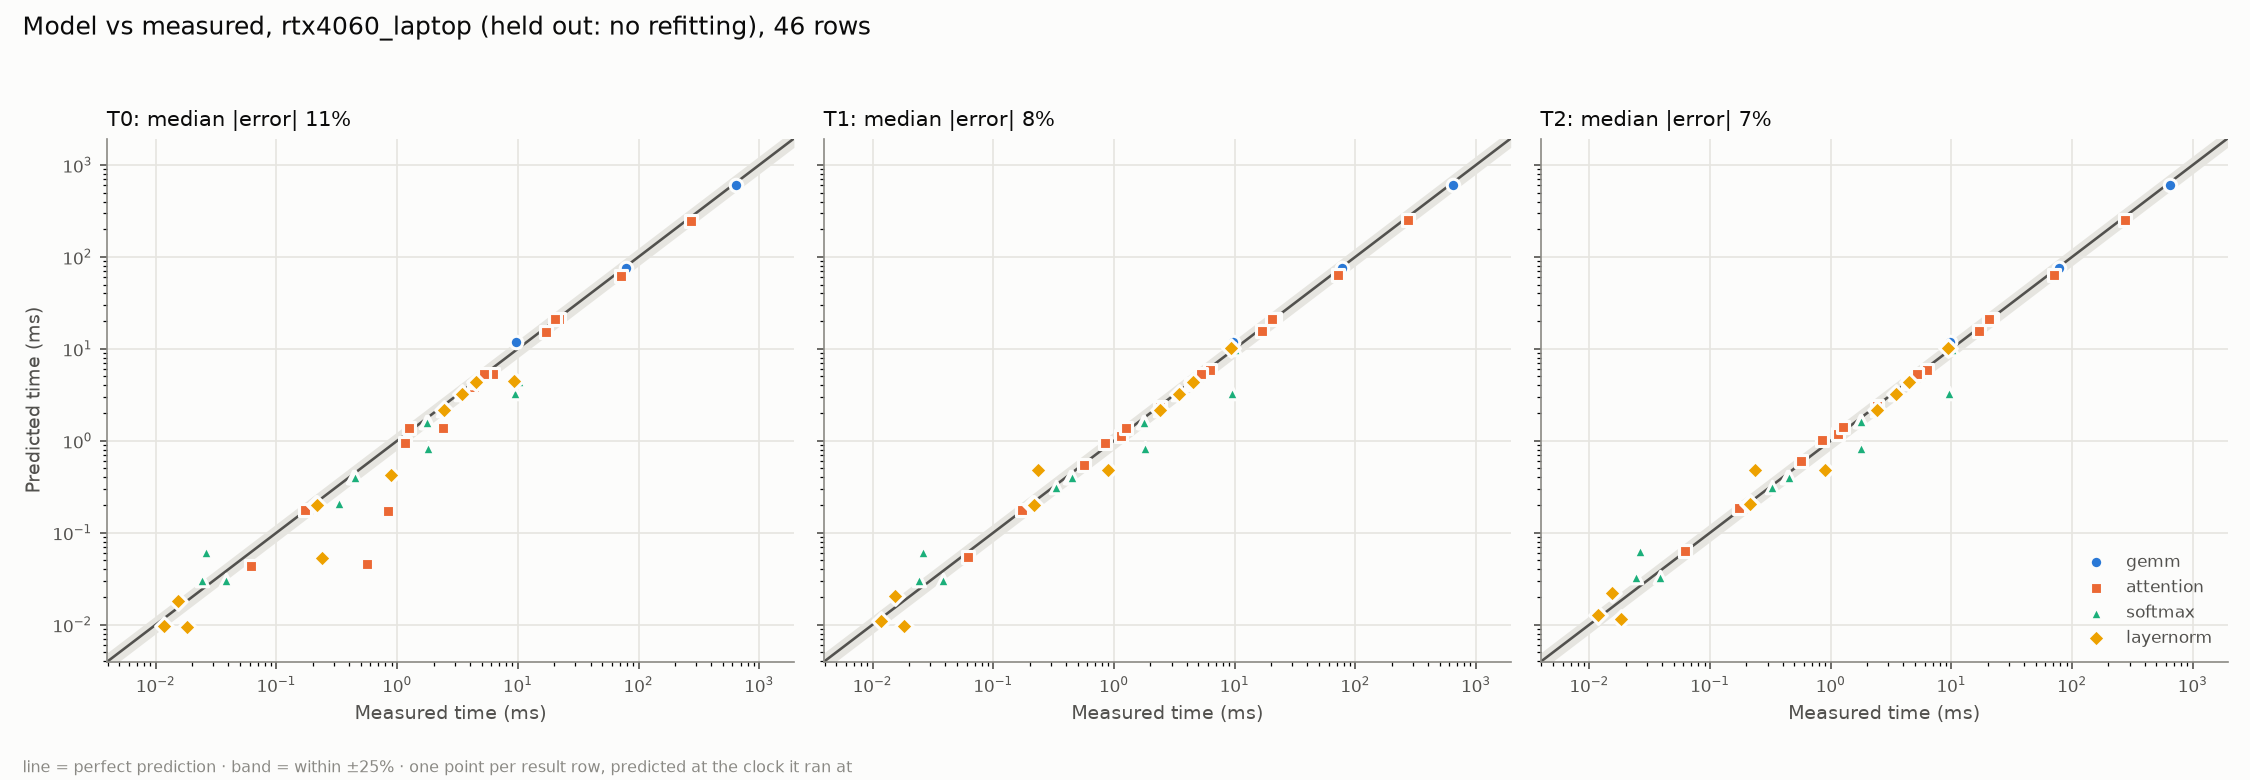
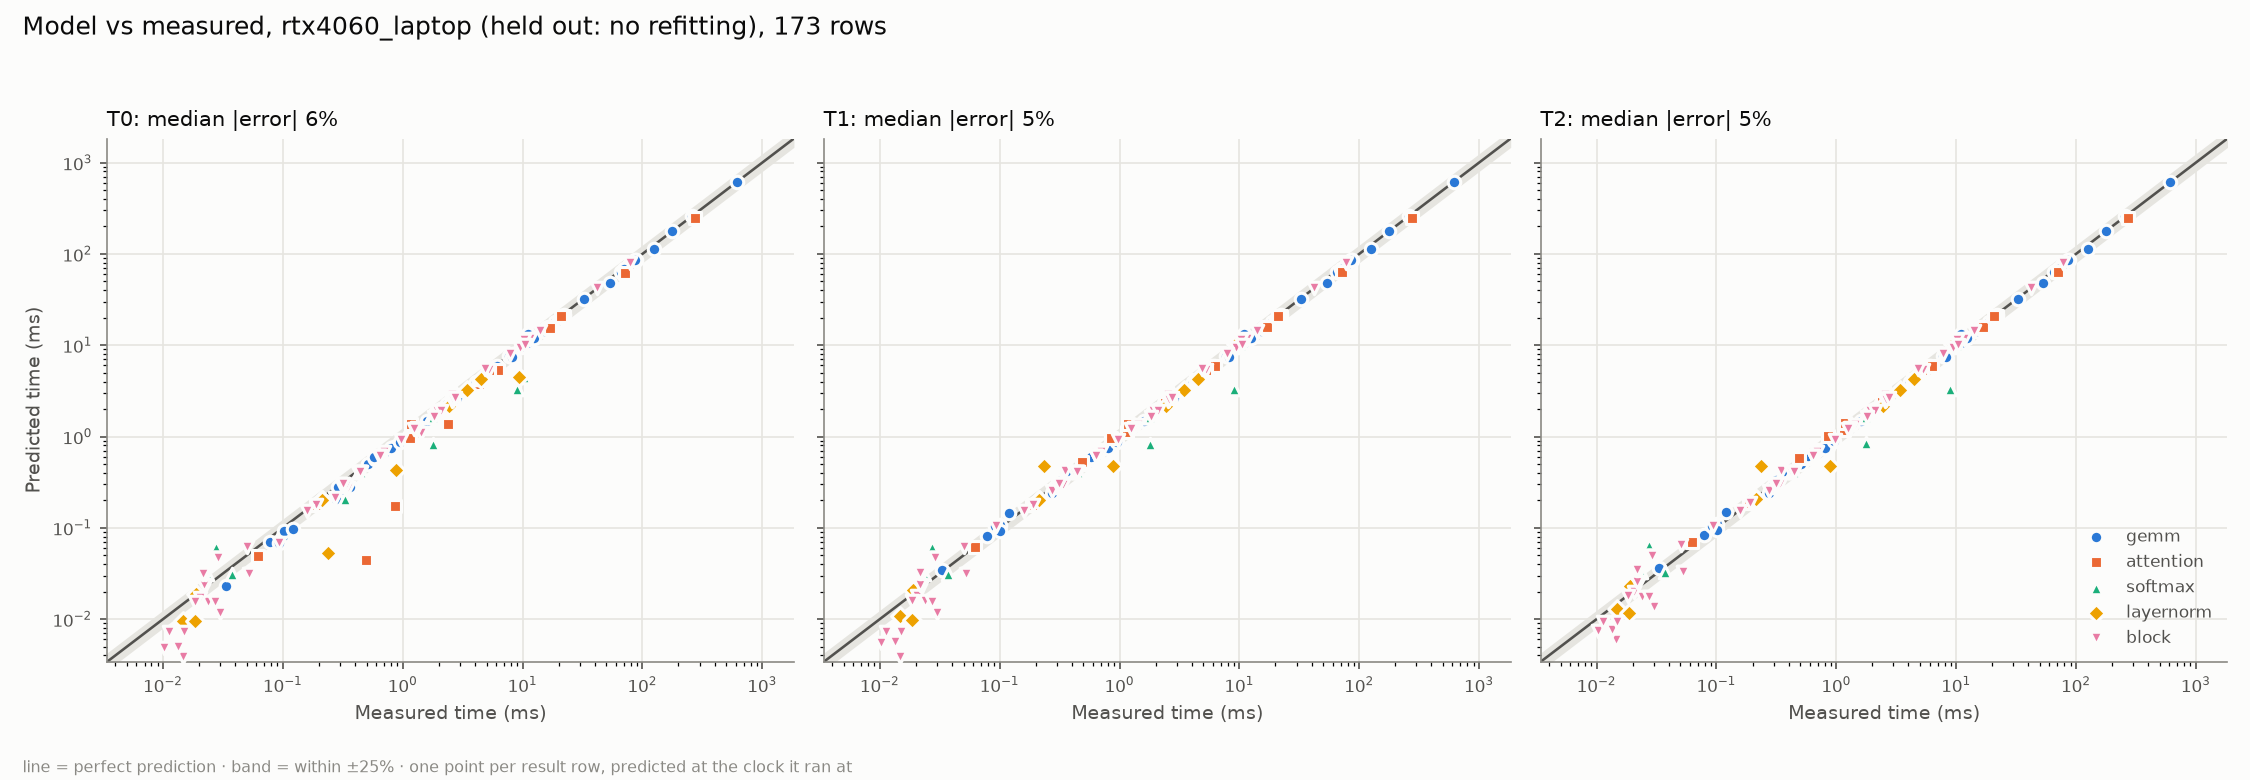
Validate on the full held-out 4060 suite: 6%/5%/5% at T0/T1/T2, no refitting
With #12's rows the 4060 set is the same 173 cases as the 4070's. The model predicts the
4060/4070 time ratio to within 2% for GEMM (1.47 vs 1.48 measured) and 4% for the memory-bound
kernels, and the one-wave GEMMs at ~1.0. The block total is within 7% (2% from 2048 tokens up).
The worst block-step misses are WSL2 launch overhead, which a native-Linux launch_us can't see.

diff --git a/analysis/model.md b/analysis/model.md
@@ -57,27 +57,61 @@ Everything else is measured (ceilings, latencies, clocks) or counted (descriptor
 
 ### RTX 4060 Laptop, held out
 
+The full suite from `b/model-inputs` (#12), predicted with the 4070's parameters and no refitting.
+
 | kernel | variant | rows | T0 median abs err | T1 median abs err | T2 median abs err | T2 bias | T2 worst row |
 |---|---|---|---|---|---|---|---|
-| attention | v0 | 5 | 12% | 8% | 8% | 0.94 | 12x2048x64 -12% |
-| attention | v1 | 5 | 42% | 4% | 5% | 1.03 | 12x512x64 +19% |
-| attention | v2 | 5 | 3% | 3% | 3% | 1.05 | 12x1024x64 +10% |
-| gemm | v0 | 3 | 6% | 6% | 6% | 1.04 | 1024x1024x1024 +22% |
-| layernorm | v0 | 3 | 52% | 46% | 46% | 1.06 | 1024x768 +102% |
-| layernorm | v1 | 3 | 5% | 5% | 4% | 1.10 | 1024x768 +46% |
-| layernorm | v2 | 3 | 6% | 6% | 6% | 1.00 | 1024x768 +9% |
-| layernorm | v3 | 3 | 11% | 11% | 11% | 0.81 | 1024x768 -36% |
-| softmax | v0 | 4 | 55% | 29% | 29% | 0.63 | 24576x2048 -65% |
-| softmax | v1 | 4 | 7% | 7% | 6% | 1.20 | 6144x512 +144% |
-| softmax | v2 | 4 | 8% | 8% | 8% | 1.02 | 6144x512 +36% |
-| softmax | v3 | 4 | 10% | 10% | 10% | 0.89 | 6144x512 -14% |
-| **all** |  | 46 | 11% | 8% | 7% | 0.97 | 24576x2048 -65% |
+| attention | v1 | 5 | 42% | 6% | 5% | 1.04 | 12x512x64 +18% |
+| attention | v2 | 5 | 5% | 2% | 2% | 1.06 | 12x1024x64 +19% |
+| block | attn | 5 | 5% | 5% | 2% | 1.07 | 8x512x768x12 +21% |
+| block | fc1 | 5 | 6% | 6% | 6% | 1.02 | 8x512x768x12 +10% |
+| block | fc2 | 5 | 5% | 5% | 5% | 1.00 | 1x512x768x12 +20% |
+| block | gelu | 5 | 11% | 11% | 11% | 0.93 | 1x512x768x12 -26% |
+| block | ln1 | 5 | 40% | 45% | 27% | 1.10 | 4x1024x768x12 +61% |
+| block | ln2 | 5 | 37% | 41% | 43% | 1.04 | 1x512x768x12 -43% |
+| block | merge | 5 | 41% | 41% | 37% | 0.63 | 1x512x768x12 -60% |
+| block | proj | 5 | 4% | 4% | 4% | 0.98 | 1x512x768x12 +14% |
+| block | qkv | 5 | 5% | 5% | 5% | 0.96 | 8x512x768x12 -8% |
+| block | res1 | 5 | 36% | 36% | 18% | 1.19 | 4x1024x768x12 +69% |
+| block | res2 | 5 | 51% | 51% | 38% | 1.15 | 4x1024x768x12 +75% |
+| block | split | 5 | 4% | 4% | 3% | 0.84 | 1x512x768x12 -54% |
+| block | total | 5 | 1% | 1% | 2% | 1.00 | 1x512x768x12 -5% |
+| gemm | v0 | 13 | 3% | 3% | 3% | 0.99 | 512x3072x768 +21% |
+| gemm | v1 | 13 | 2% | 2% | 2% | 0.97 | 512x2304x768 -5% |
+| gemm | v2 | 13 | 5% | 5% | 4% | 0.95 | 3072x3072x3072 -10% |
+| gemm | v3 | 13 | 8% | 5% | 5% | 0.99 | 512x768x3072 +16% |
+| gemm | v4 | 13 | 6% | 4% | 6% | 1.01 | 512x768x3072 +23% |
+| layernorm | v0 | 3 | 52% | 46% | 46% | 1.06 | 1024x768 +103% |
+| layernorm | v1 | 3 | 4% | 5% | 4% | 1.04 | 1024x768 +22% |
+| layernorm | v2 | 3 | 6% | 6% | 6% | 0.93 | 1024x768 -13% |
+| layernorm | v3 | 3 | 12% | 12% | 11% | 0.81 | 1024x768 -37% |
+| softmax | v0 | 4 | 55% | 29% | 28% | 0.64 | 24576x2048 -63% |
+| softmax | v1 | 4 | 6% | 6% | 5% | 1.19 | 6144x512 +134% |
+| softmax | v2 | 4 | 7% | 7% | 7% | 1.04 | 6144x512 +42% |
+| softmax | v3 | 4 | 10% | 10% | 10% | 0.90 | 6144x512 -11% |
+| **all** |  | 173 | 6% | 5% | 5% | 0.98 | 24576x2048 -63% |
 
-**Coverage caveat.** The 4060 rows that exist today are Kartik's from #6-#9: GEMM v0 at three
-squares, softmax, LayerNorm and attention. GEMM v1-v4, the transformer-shape GEMMs and the block
-come from `tools/suite.sh` on the 4060 (`b/model-inputs`); this table is rerun when they land, and
-the compute-bound rows (v3, v4, the block's projections) are the ones that test the 1.5x SM
-scaling.
+**Does it get the SM scaling right?** D1's test is the 4060 / 4070 time ratio: about 1.5x for
+compute-bound kernels, about 1x for memory-bound ones. Medians over the rows both GPUs share
+(block: the total only):
+
+| kernels | rows | measured 4060 / 4070 | predicted | median abs error of the ratio |
+|---|---|---|---|---|
+| GEMM v0-v4 | 61 | 1.48 | 1.47 | 2% |
+| GEMM v3/v4 at 512x768x768 and 512x768x3072 (24 tiles: one wave on both GPUs) | 4 | 1.02 | 0.99 | 4% |
+| softmax / LayerNorm | 28 | 0.98 | 1.00 | 4% |
+| attention | 15 | 1.06 | 1.00 | 4% |
+| block total | 5 | 1.24 | 1.22 | 1% |
+
+The one-wave GEMMs are T1's case: the 4070's extra 12 SMs sit idle, so they run at the same
+speed on both GPUs, and a roofline alone would have predicted 1.5x.
+
+**Where it misses on the 4060.** The block's small steps (residual adds, LayerNorms, split/merge
+at 512-1024 tokens, 10-50 us each) take 5-10 us longer on the 4060 than on the 4070, yet match
+at 8x2048. That is per-launch overhead: the 4060 runs under WSL2, the 4070 natively, and
+`launch_us` = 2 us was fitted on native Linux. Those rows give the 4060's worst block-step
+errors (residual 4x1024 +69%) without moving the block total, where they are under 1% of the
+time.
 
 ### RTX 4070 Laptop, tuning set
 
@@ -118,7 +152,7 @@ scaling.
 
 ## Which effect explains which error
 
-- **Occupancy and waves (T0 -> T1)**: attention v1 drops from 40% to 4% on the 4070, and from 42% to 4% held out on the 4060. It runs one
+- **Occupancy and waves (T0 -> T1)**: attention v1 drops from 40% to 4% on the 4070, and from 42% to 6% held out on the 4060. It runs one
   `gemm_v3` per head, and at N = 256 a head's Q·Kᵀ is 4 tiles: 32 of 36 SMs sit idle, which T0's
   "spread evenly over all SMs" cannot see. The block's `fc2` at 512 tokens is the same effect in a
   single launch: 24 blocks on 36 SMs, each SM holding one 8-warp block that runs at
@@ -142,12 +176,15 @@ scaling.
 | instruction-level efficiency | absorbed by `fma_eff` = 0.625, `tc_eff` = 0.425 | GEMM v3 reaches 62% of the FMA microbenchmark (register bank conflicts, address math, barriers) and v4 42% of the mma microbenchmark (WMMA fragment loads through shared memory). The model cannot derive those from first principles; it fits one number per pipe on the 4070 and carries it to the 4060 unchanged. |
 | L2 reuse | GEMM v1 3072³ +23% | The panel model is all-or-nothing at `l2_eff` x 32 MB. Shapes whose reuse distance sits near that edge (v1 at 3072: 384 KB panels, 96 per row) get partial reuse in reality. |
 | clock variance | no row error, by construction | Predictions use each row's measured clock. The model does not predict the clock: under sustained FMA load the 4070 drops from 2490 to 1700-2000 MHz (cuBLAS, v3 at 4096³), so a prediction at the ceiling clock would be up to 1.4x optimistic for those rows. |
+| launch overhead per platform | residual 4x1024 +69%, softmax v1 6144x512 +134% (4060; +30% and +50% on the 4070) | `launch_us` is one number fitted on the native-Linux 4070. Under WSL2 the 4060 pays 5-10 us more per small launch, so 10-50 us kernels come out slow there. A per-platform launch term would fix it, but fitting it on the 4060 would break D1. |
 | elementwise index math | split -50%, merge -41% (small shapes) | Integer division is counted as a fixed 40 instructions per element; the real cost depends on what the compiler hoists. |
 
 ## Transformer block (D4)
 
 GPT-2 small layer (d = 768, 12 heads), FP32, `block/block.cu`. The model column is the sum of the
 model's per-step predictions; "measured total" runs all twelve steps back to back.
+
+On the 4070 Laptop:
 
 | B×S×D×H | measured total | measured Σ steps | model Σ steps T0 | T1 | T2 | T2 vs total | PyTorch eager | PyTorch graph | ours vs eager |
 |---|---|---|---|---|---|---|---|---|---|
@@ -157,7 +194,17 @@ model's per-step predictions; "measured total" runs all twelve steps back to bac
 | 8x512x768x12 | 9.143 | 9.070 | 8.855 | 9.167 | 9.197 | +1% | 10.602 | 10.021 | 1.16× |
 | 8x2048x768x12 | 67.636 | 69.669 | 68.963 | 69.288 | 69.318 | +2% | 81.224 | — (out of memory) | 1.20× |
 
-Per step at 8x2048x768x12:
+On the 4060 Laptop, held out:
+
+| B×S×D×H | measured total | measured Σ steps | model Σ steps T0 | T1 | T2 | T2 vs total | PyTorch eager | PyTorch graph | ours vs eager |
+| 1x512x768x12 | 1.428 | 1.330 | 1.084 | 1.294 | 1.324 | -7% | 1.508 | 1.564 | 1.06× |
+| 1x2048x768x12 | 9.432 | 9.483 | 9.315 | 9.317 | 9.347 | -1% | 11.560 | 11.423 | 1.23× |
+| 4x1024x768x12 | 13.962 | 13.509 | 14.035 | 14.037 | 14.067 | +1% | 16.448 | 16.485 | 1.18× |
+| 8x512x768x12 | 11.553 | 11.290 | 11.756 | 11.758 | 11.788 | +2% | 12.909 | 12.874 | 1.12× |
+| 8x2048x768x12 | 78.111 | 78.699 | 79.921 | 79.921 | 79.951 | +2% | 96.315 | — (out of memory) | 1.23× |
+| step | measured | model T2 | error | limiter |
+
+Per step at 8x2048x768x12, 4070:
 
 | step | measured | model T2 | error | limiter |
 |---|---|---|---|---|
@@ -174,7 +221,9 @@ Per step at 8x2048x768x12:
 | fc2 | 7.0492 | 7.0450 | -0% | compute |
 | res2 | 0.6561 | 0.6079 | -7% | dram |
 
-The sum of predicted steps lands within 5% of the measured block at every size. Attention is
-61% of the block at 8x2048 and DRAM-bound, so that is where an unfused FP32 block goes;
-PyTorch eager (SDPA math backend) is 16-27% slower than ours from 2048 tokens up, and 5% faster
-at 512 tokens, where per-launch costs dominate both.
+The sum of predicted steps lands within 5% of the measured block at every size on the 4070,
+and within 7% on the held-out 4060 (2% or better from 2048 tokens up). Attention is
+61% of the block at 8x2048 and DRAM-bound, so that is where an unfused FP32 block goes.
+On the 4070, PyTorch eager (SDPA math backend) is 16-27% slower than ours from 2048 tokens up,
+and 5% faster at 512 tokens, where per-launch costs dominate both. On the 4060 it is 6-23%
+slower at every size.
